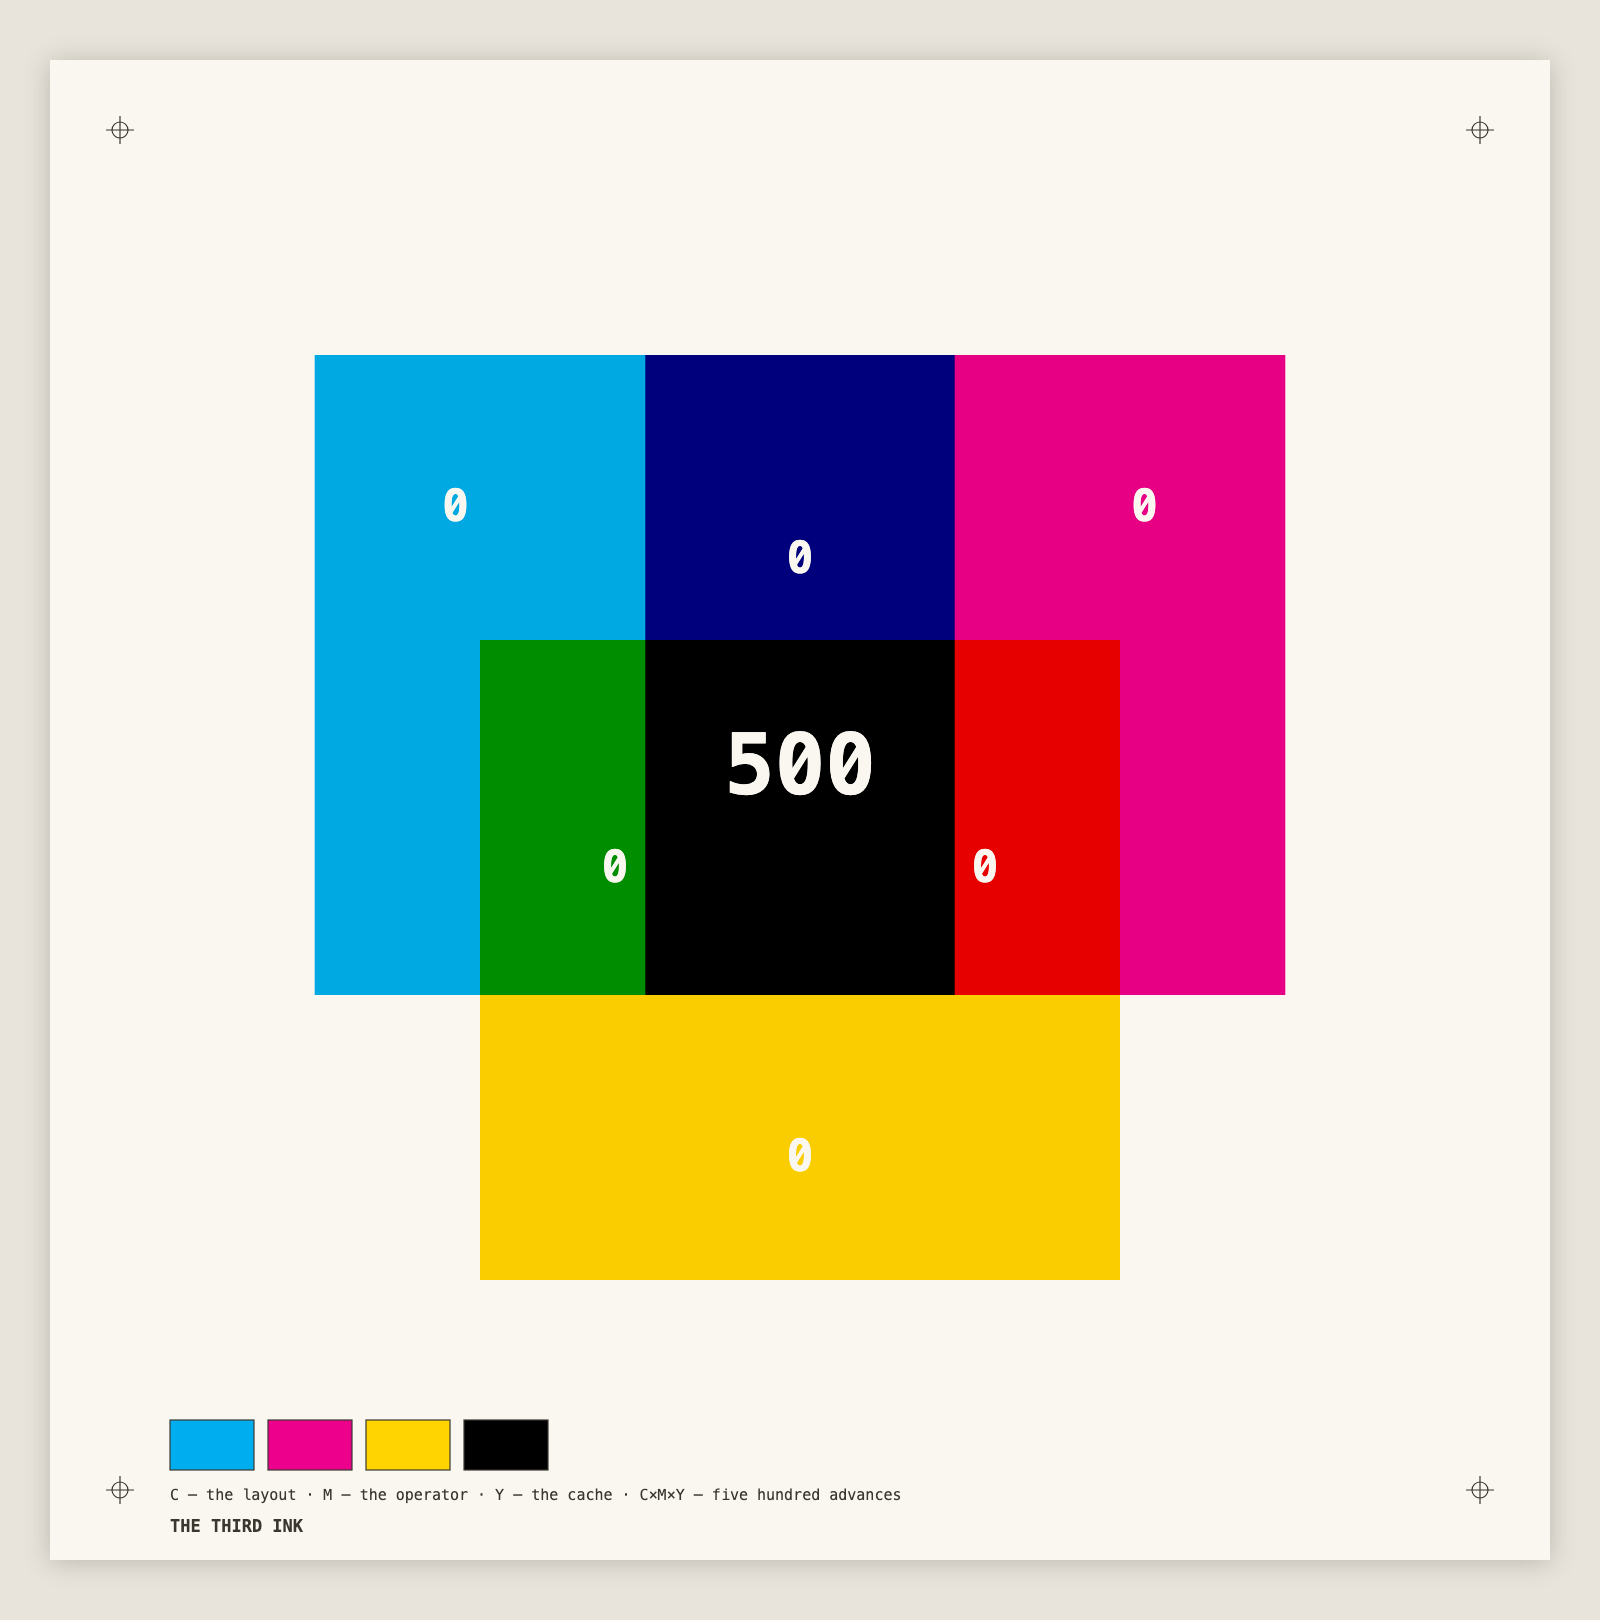
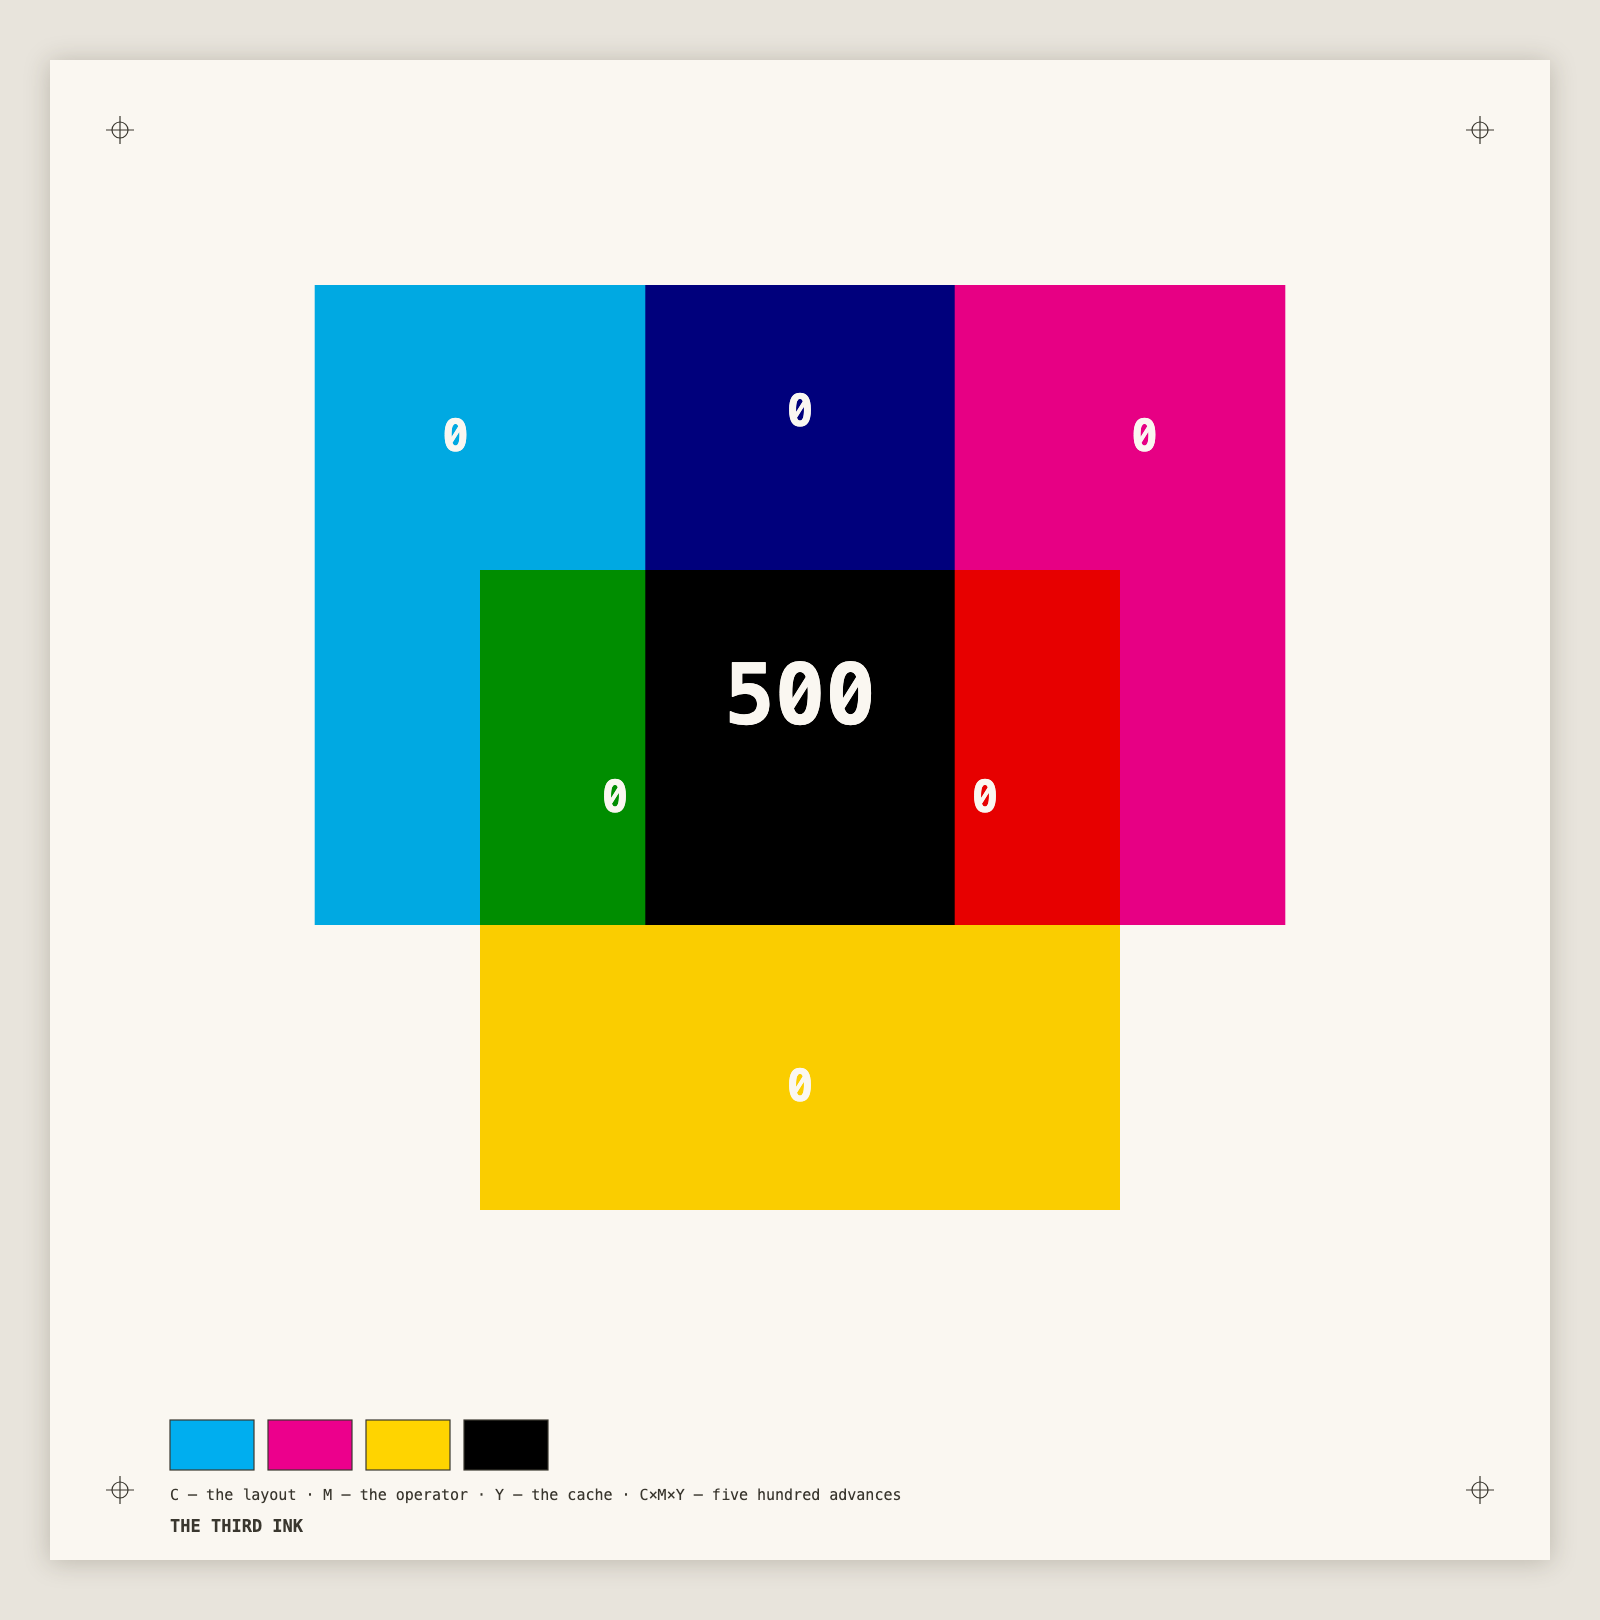
the-third-ink: composition fixes (raised plates, C×M zero at band centroid)

diff --git a/portfolio/2026-07-06-the-third-ink/index.html b/portfolio/2026-07-06-the-third-ink/index.html
@@ -37,7 +37,7 @@ function regmark(cx, cy) {
 
 // Three plates, triangular offset. Each is a large hard-edge rectangle.
 const S = 640;                       // plate side
-const CXc = W / 2, CYc = H / 2 - 40;
+const CXc = W / 2, CYc = H / 2 - 110;
 const OFF = 190;                     // triangular offset radius
 const plates = [
   { color: CYAN,    dx: -OFF * 0.87, dy: -OFF * 0.5 },
@@ -68,7 +68,7 @@ fig('0', cx1 - S * 0.28, cy1 - S * 0.24, 44, PAPER);
 fig('0', cx2 + S * 0.28, cy2 - S * 0.24, 44, PAPER);
 fig('0', cx3, cy3 + S * 0.33, 44, PAPER);
 // pairs (two-ink overlaps)
-fig('0', CXc, cy1 - S * 0.16, 44, PAPER);                       // C×M
+fig('0', CXc, cy1 - S * 0.28, 44, PAPER);                       // C×M
 fig('0', (cx1 + cx3) / 2 - S * 0.16, (cy1 + cy3) / 2 + S * 0.10, 44, PAPER); // C×Y
 fig('0', (cx2 + cx3) / 2 + S * 0.16, (cy2 + cy3) / 2 + S * 0.10, 44, PAPER); // M×Y
 // the triple — near-black; the only region where data flows